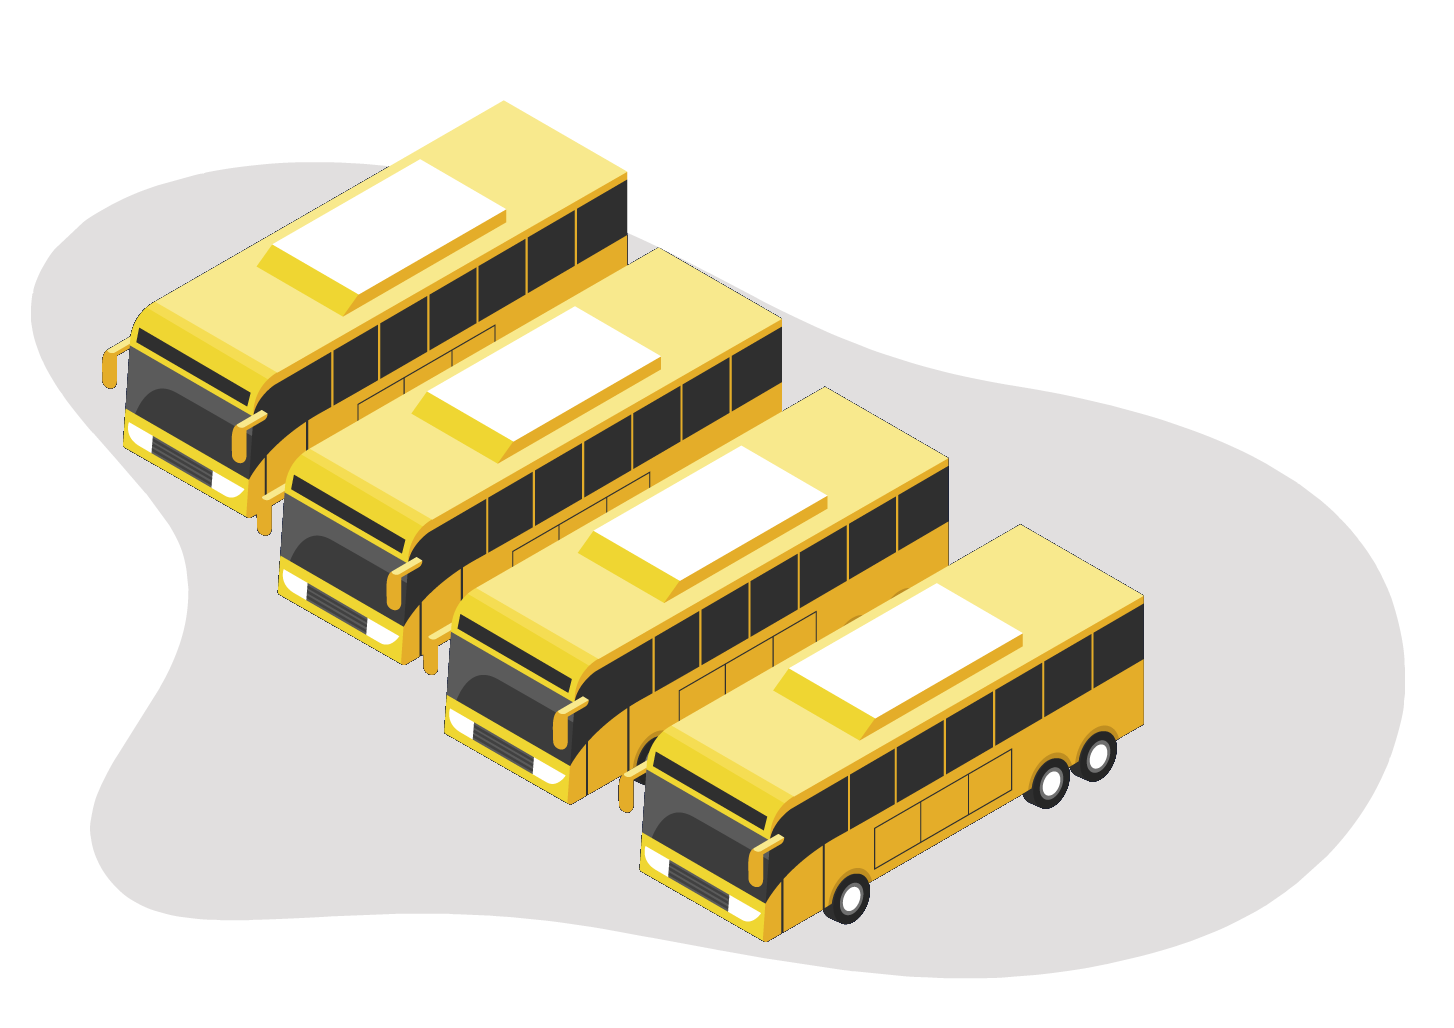
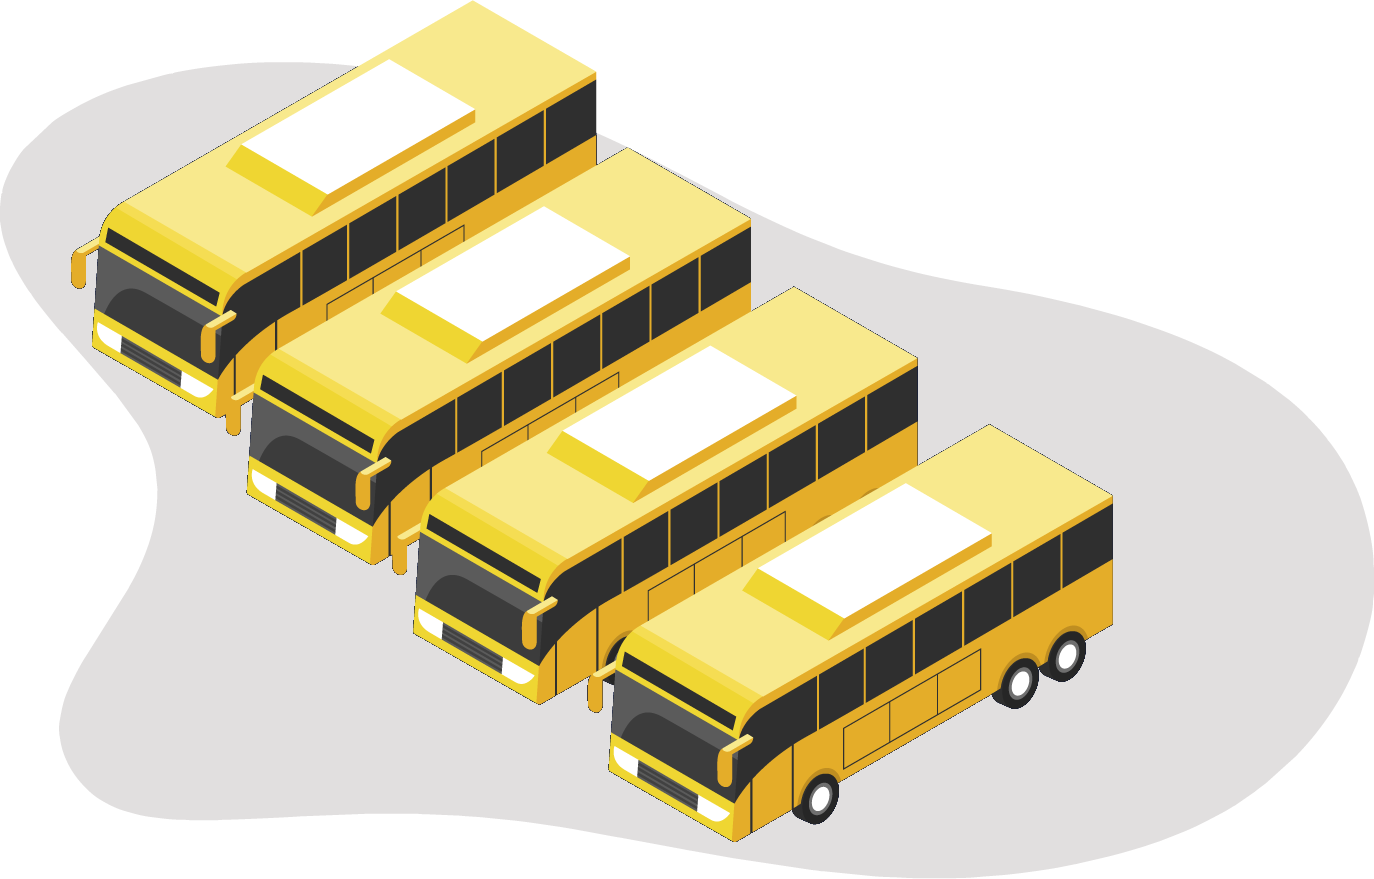
alteracoes responsividade

diff --git a/css/style.css b/css/style.css
@@ -20,7 +20,7 @@
                                 
                                 .flex-1 {
                                     flex: 1;
-                                    padding: 10px 20vw;
+                                    padding: 10px 3vw;
                                 }
                                 
                                 .logo {
@@ -84,7 +84,7 @@
                                 /* Primeira Div */
                                 
                                 .flex-2 {
-                                    padding: 100px 22vw;
+                                    padding: 100px 5vw;
                                     display: grid;
                                     grid-template-columns: 1fr 1fr;
                                     grid-template-rows: 1fr;
@@ -110,7 +110,7 @@
                                 }
                                 
                                 .imagem-filhos {
-                                    width: 609px;
+                                    width: 550px;
                                 }
                                 
                                 h1 {
@@ -130,7 +130,7 @@
                                 /* Segunda Div */
                                 
                                 .flex-3 {
-                                    padding: 180px 22vw;
+                                    padding: 180px 5vw;
                                     display: grid;
                                     grid-template-columns: 1fr 1fr;
                                     grid-template-rows: 1fr;
@@ -143,7 +143,7 @@
                                 }
                                 
                                 .imagem-onibus {
-                                    width: 468px;
+                                    width: 550px;
                                 }
                                 
                                 h2 {
@@ -336,7 +336,7 @@
                                 
                                 .flex-6 {
                                     background: white;
-                                    padding: 100px 22vw;
+                                    padding: 100px 5vw;
                                 }
                                 
                                 .setas {
@@ -596,22 +596,13 @@
                                     }
                                 }
                                 
-                                @media screen and (max-width: 1457px) {
-                                    .flex-1 {
-                                        padding: 10px 10vw;
-                                    }
-                                    .flex-2 {
-                                        padding: 100px 10vw;
-                                    }
-                                    .flex-3 {
-                                        padding: 100px 10vw;
-                                    }
-                                    .flex-4 {
-                                        padding: 100px 10vw;
-                                    }
-                                    .flex-5 {
-                                        padding: 100px 10vw;
-                                    }
+                                @media screen and (max-width: 1457px) {   
+                                    .imagem-filhos {
+                                        width: 430px;
+                                    }     
+                                    .imagem-onibus {
+                                        width: 430px;
+                                    }                            
                                     .flex-contato {
                                         display: grid;
                                         grid-template-rows: 1fr;
@@ -675,7 +666,7 @@
                                         font-size: 14px;
                                     }
                                     .imagem-filhos {
-                                        width: 50vw;
+                                        width: 40vw;
                                     }
                                     .flex-3 {
                                         padding: 100px 50px;
@@ -786,6 +777,12 @@
                                     }
                                     h6 {
                                         font-size: 36px;
+                                    }
+                                    .imagem-filhos {
+                                        width: 350px;
+                                    }
+                                    .imagem-onibus {
+                                        width: 350px;
                                     }
                                     .foto-crianca {
                                         width: 65vw;
@@ -979,7 +976,7 @@
                                         padding: 12px 50px;
                                     }
                                     .imagem-filhos {
-                                        width: 100vw;
+                                        width: 70vw;
                                     }
                                     h2 {
                                         font-size: 30px;
@@ -988,7 +985,7 @@
                                         font-size: 14px;
                                     }
                                     .imagem-onibus {
-                                        width: 80vw;
+                                        width: 70vw;
                                     }
                                     h3 {
                                         font-size: 30px;
